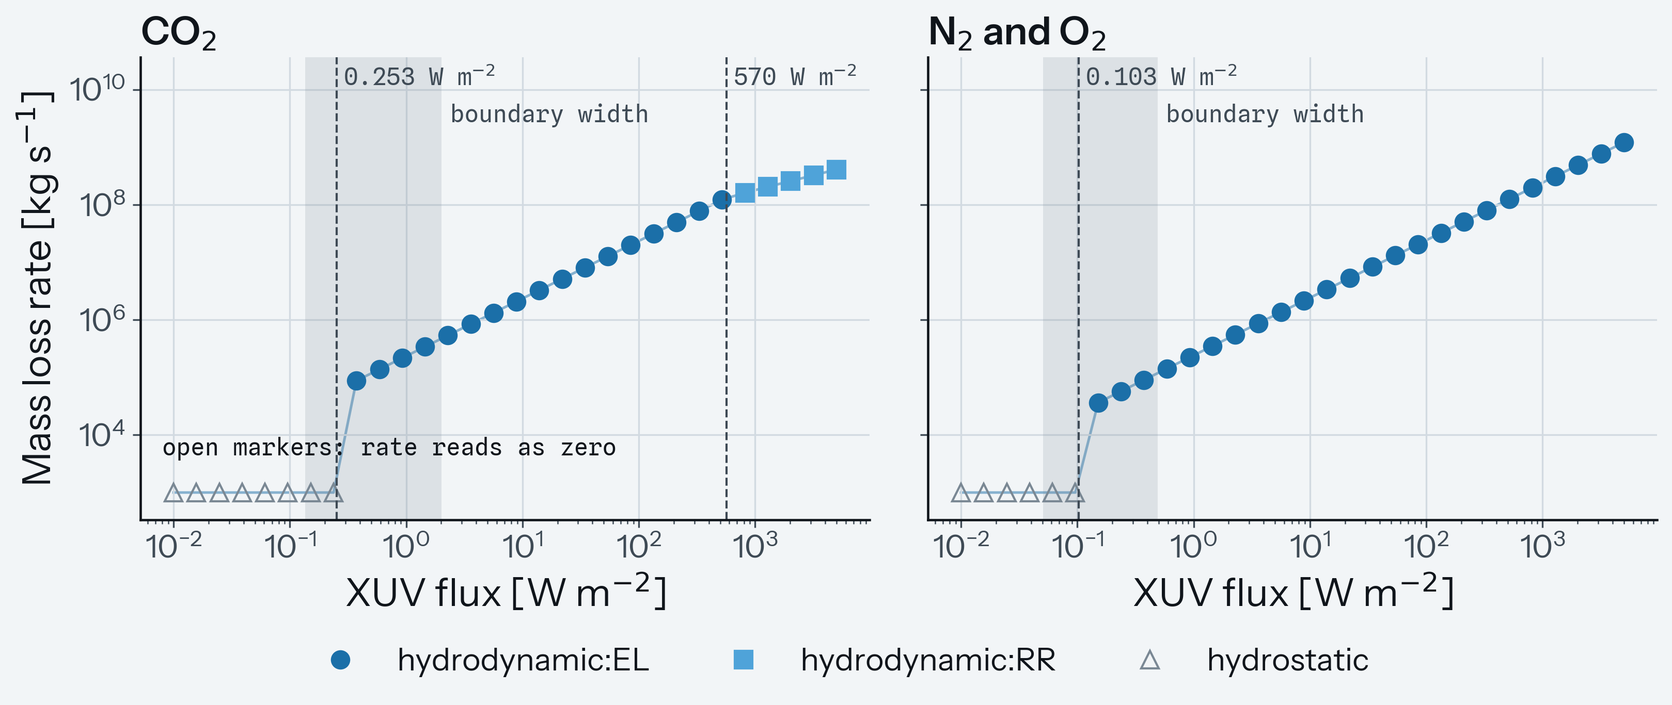
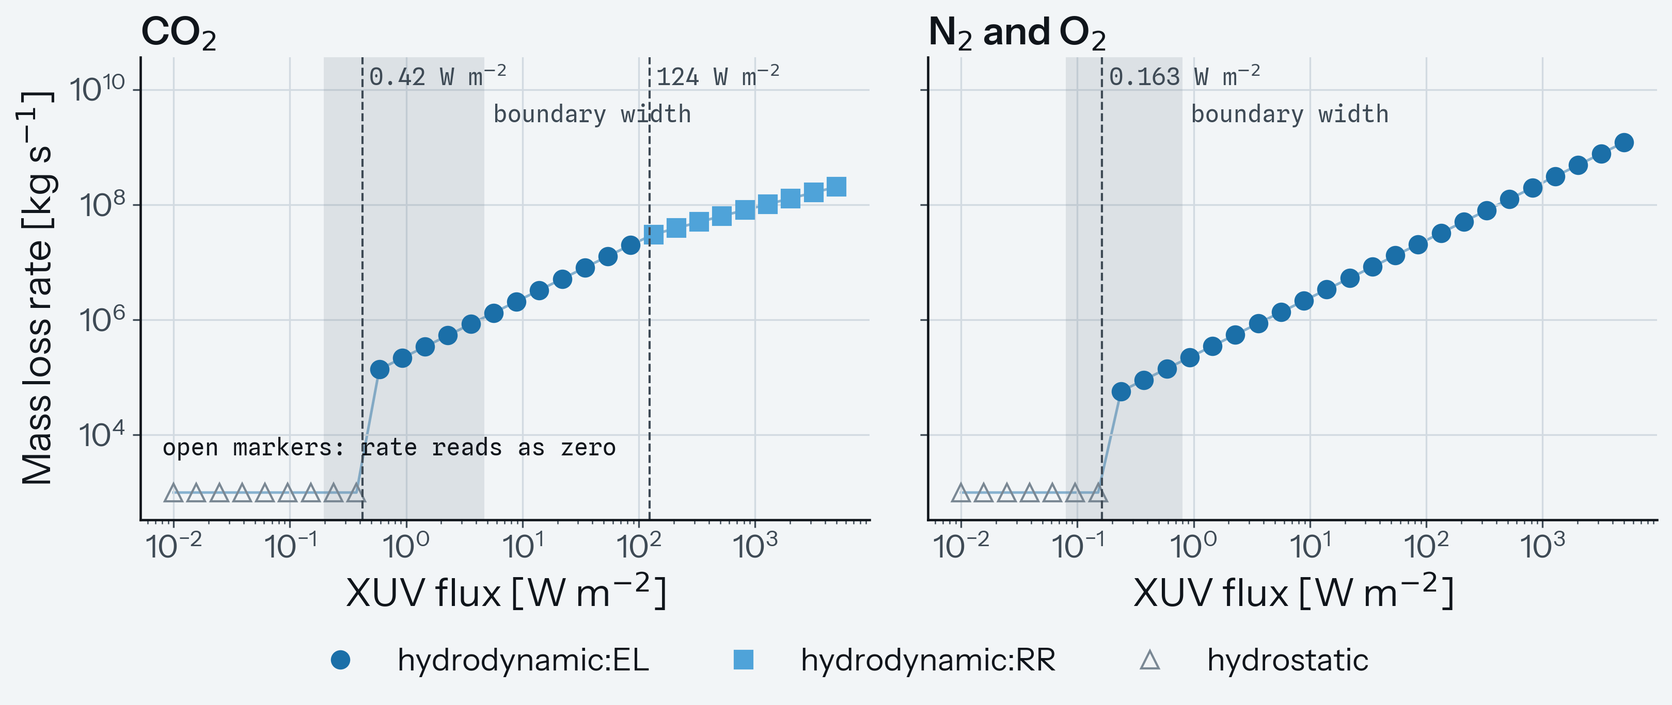
Evaluate the recombination-limited wind at the surface-averaged flux
The energy- and photon-limited rates spread the power a disk intercepts, pi R^2 F, over the whole sphere, but the recombination-limited chain took the substellar flux at every point, Murray-Clay et al.'s spherically symmetric case, so min(EL, RR, PL) compared rates built on two geometries and the recombination-limited one carried four times the photon budget. The chain now takes F_xuv / 4, which halves its rate (it scales as the square root of the flux) and, because the collisionality switch reads the same sonic density, doubles the sonic-point Knudsen number. The wind page states the geometry, and the Murray-Clay dayside factors are described as reductions of the spherically symmetric rate, which they are.

On the tutorial's CO2 planet the wind onset moves from 0.253 to 0.42 W m^-2 and the recombination-limited rate takes over at 124 instead of 570 W m^-2. The efficiency example moves to 3 and 300 W m^-2 so the photon limit still binds above an efficiency of 0.26, the hysteresis example to 0.38 and 0.48 W m^-2, and the stellar track now crosses near 450 Myr; the quoted numbers, both figures, and the overflow edge on the Roche page (now a factor 45) are remeasured. The crossing label on the track figure moves to mid-height, clear of the legend. Three test states that sat on the old geometry are moved: a photon-limited wind at 1e3 W m^-2, a renamed wind whose memory is now tested at a threshold of 0.24, and the residual witness at 0.01 W m^-2.

diff --git a/tests/test_dispatcher.py b/tests/test_dispatcher.py
@@ -312,8 +312,8 @@ def test_recombination_limit_removes_the_rr_candidate_only():
     """With ``recombination_limit`` off the wind is min(EL, PL), and nothing else moves.
 
     A one Earth-mass carbon dioxide atmosphere under 1e4 W m^-2 is
-    recombination-limited by default, at a quarter of its energy-limited
-    rate. Switching the candidate off returns that energy-limited rate and
+    recombination-limited by default, at about a ninth of its
+    energy-limited rate. Switching the candidate off returns that energy-limited rate and
     label, while the sonic-point Knudsen number, which the chain still
     supplies, is unchanged. On a five Earth-mass hydrogen and helium wind
     that is photon-limited, removing RR leaves the verdict alone and
@@ -332,7 +332,7 @@ def test_recombination_limit_removes_the_rr_candidate_only():
     assert off.mdot > 3.0 * on.mdot
     assert off.diagnostics['hydrodynamic']['mdot_rr'] == math.inf
     assert off.diagnostics['knudsen']['kn_sc'] == on.diagnostics['knudsen']['kn_sc']
-    hhe = dict(comp={'H2': 0.9, 'He': 0.1}, F_xuv=1.0e4, a=0.05 * AU)
+    hhe = dict(comp={'H2': 0.9, 'He': 0.1}, F_xuv=1.0e3, a=0.05 * AU)
     pl = dispatch(_inputs(5 * Me, 1.8 * Re, 1100.0, **hhe))
     no_rr = dispatch(
         _inputs(
@@ -1003,6 +1003,32 @@ def test_wind_thermostat_sees_the_co2_column_above_the_base():
     assert t_wind > t_open + 500.0
 
 
+@pytest.mark.physics_invariant
+def test_recombination_limited_rate_uses_the_surface_averaged_flux():
+    """The RR candidate is the chain at F_xuv / 4, the full-surface geometry.
+
+    The energy- and photon-limited rates spread the power a disk intercepts
+    over the whole sphere; the recombination-limited chain matches that at a
+    quarter of the substellar flux. Its rate scales as the square root of
+    the flux, so the substellar value would be twice as large, which the
+    pin discriminates.
+    """
+    from zephyrus import hydrodynamic as hy
+    from zephyrus.composition import atomize
+    from zephyrus.profiles import wind_base_level
+
+    state = _inputs(Me, Re, 1000.0, {'CO2': 1.0}, F_xuv=1.0e4, a=0.05 * AU)
+    out = dispatch(state)
+    hydro = out.diagnostics['hydrodynamic']
+    base, _flags = wind_base_level(state.profile, state.M_p)
+    elements = atomize(base['vmr'])
+    t_wind = hydro['T_wind']
+    quarter = hy.rr_chain(state.M_p, 0.25 * state.F_xuv, base['r'], t_wind, elements)
+    full = hy.rr_chain(state.M_p, state.F_xuv, base['r'], t_wind, elements)
+    assert hydro['mdot_rr'] == pytest.approx(quarter['mdot_rr'], rel=1e-12, abs=0.0)
+    assert full['mdot_rr'] == pytest.approx(2.0 * quarter['mdot_rr'], rel=1e-9, abs=0.0)
+
+
 def test_a_result_cannot_change_the_next_one():
     """Editing a returned result leaves the module and later results intact.
 
@@ -1100,10 +1126,10 @@ def test_hysteresis_remembers_a_wind_the_roche_screen_renamed():
     """A wind renamed roche_overflow is remembered as a wind.
 
     An 8 Earth-mass, 1.43 Earth-radius steam and hydrogen envelope on an
-    eccentric 0.0135 au orbit: its energy-limited wind passes the Hill
-    radius and is renamed, with a sonic-point Knudsen number of 0.152. At a
-    switch threshold of 0.12 the wind is rarefied without memory, so the
-    hysteresis window (0.18) is what keeps it. The memory is the result's
+    eccentric 0.0135 au orbit: its recombination-limited wind passes the
+    Hill radius and is renamed, with a sonic-point Knudsen number of 0.303.
+    At a switch threshold of 0.24 the wind is rarefied without memory, so
+    the hysteresis window (0.36) is what keeps it. The memory is the result's
     rate_branch; the renamed label carried none, and the state dropped to a
     hydrostatic rate seventeen decades below the wind.
     """
@@ -1123,14 +1149,14 @@ def test_hysteresis_remembers_a_wind_the_roche_screen_renamed():
         p_top=1.46e-6,
     )
     wind = dispatch(state)
-    assert (wind.regime, wind.rate_branch) == ('roche_overflow', 'hydrodynamic:EL')
+    assert (wind.regime, wind.rate_branch) == ('roche_overflow', 'hydrodynamic:RR')
     assert wind.rate_branch == wind.diagnostics['roche']['rate_branch']
-    assert 0.12 < wind.diagnostics['knudsen']['kn_sc'] < 0.18
-    settings = DispatchSettings(kn_crit=0.12)
+    assert 0.24 < wind.diagnostics['knudsen']['kn_sc'] < 0.36
+    settings = DispatchSettings(kn_crit=0.24)
     kept = dispatch(dataclasses.replace(state, settings=settings, prev_regime=wind.rate_branch))
-    assert (kept.regime, kept.rate_branch) == ('roche_overflow', 'hydrodynamic:EL')
+    assert (kept.regime, kept.rate_branch) == ('roche_overflow', 'hydrodynamic:RR')
     assert kept.flags.get('hysteresis_active') is True
-    assert kept.diagnostics['knudsen']['threshold_applied'] == pytest.approx(0.18)
+    assert kept.diagnostics['knudsen']['threshold_applied'] == pytest.approx(0.36)
     forgot = dispatch(dataclasses.replace(state, settings=settings, prev_regime=wind.regime))
     assert forgot.regime == 'hydrostatic'
     assert 'hysteresis_active' not in forgot.flags
@@ -1753,7 +1779,7 @@ ROUTING_WITNESSES = [
         1.5,
         1000.0,
         {'H2': 0.9, 'He': 0.1},
-        0.0001,
+        0.01,
         0.0775,
         0.0,
         600.0,

diff --git a/examples/demo_dispatcher/demo_dispatcher.py b/examples/demo_dispatcher/demo_dispatcher.py
@@ -291,7 +291,7 @@ print(
 # --8<-- [start:step6_efficiency]
 print(f'{"epsilon":>7}  {"F_xuv":>6}  {"regime":<16} {"EL":>9}  {"RR":>9}  {"PL":>9}  [kg/s]')
 for eps in (0.1, 0.3, 0.6):
-    for f_xuv in (10.0, 1.0e3):
+    for f_xuv in (3.0, 300.0):
         out = dispatch(build_state('CO2', 1.0, 1.0, f_xuv, DispatchSettings(efficiency=eps)))
         hy = out.diagnostics['hydrodynamic']
         print(
@@ -315,7 +315,7 @@ for fractionate in (True, False):
 
 # --8<-- [start:step6_hysteresis]
 print(f'{"F_xuv":>5}  {"previous label":<16} {"regime":<16} {"Kn_sc":>6}  threshold')
-for f_xuv in (0.23, 0.28):
+for f_xuv in (0.38, 0.48):
     for previous in (None, 'hydrostatic', 'hydrodynamic:EL'):
         hysteresis_state = build_state('CO2', 1.0, 1.0, f_xuv)
         hysteresis_state.prev_regime = previous

diff --git a/src/zephyrus/dispatcher.py b/src/zephyrus/dispatcher.py
@@ -377,7 +377,9 @@ def dispatch(inputs: EscapeInputs) -> EscapeResult:
     hydro_flags: dict = dict(base_flags)
     if thermo.get('clamped'):
         hydro_flags['thermostat_clamped'] = thermo['clamped']
-    rr = hy.rr_chain(inputs.M_p, inputs.F_xuv, base['r'], t_wind, elements)
+    # Surface-averaged flux, the full-surface geometry of the EL and PL rates;
+    # Murray-Clay et al. (2009) put the substellar flux over the whole sphere.
+    rr = hy.rr_chain(inputs.M_p, 0.25 * inputs.F_xuv, base['r'], t_wind, elements)
     if rr['subcritical']:
         hydro_flags['subcritical_sonic'] = True
 

diff --git a/src/zephyrus/diagnostics.py b/src/zephyrus/diagnostics.py
@@ -30,8 +30,8 @@ MURRAY_CLAY_EXPONENTS = {
     'EL_numerical': 0.9,
     'EL_analytic_inherited': 1.0,
 }
-# Their regime-dependent dayside-heating reduction factors relative to
-# full-surface redistribution, for sensitivity analyses.
+# Their regime-dependent dayside-heating reductions of the spherically
+# symmetric rate (substellar flux over 4 pi), for sensitivity analyses.
 DAYSIDE_FACTORS = {'energy_limited': 0.26, 'recombination_limited': 0.31}
 
 # Threshold gravitational potentials, log10(-phi) in cgs (erg/g), with

diff --git a/src/zephyrus/plot.py b/src/zephyrus/plot.py
@@ -317,7 +317,7 @@ def plot_track(
                 ax.axvline(crossing, color=RULE_COLOR, linestyle='--', lw=1.0)
             ax_rate.annotate(
                 f'{regimes[i]} ends near {crossing:.0f} Myr',
-                xy=(crossing, 0.06),
+                xy=(crossing, 0.5),
                 xycoords=ax_rate.get_xaxis_transform(),
                 xytext=(-6, 0),
                 textcoords='offset points',

diff --git a/docs/Tutorials/dispatch.md b/docs/Tutorials/dispatch.md
@@ -123,19 +123,19 @@ A star's XUV output falls by orders of magnitude as it ages, so a sweep in flux 
 ```text
 === Step 3: sweep the XUV flux across two regime boundaries ===
 F_xuv [W m-2]  regime           mdot [kg/s]     Kn_sc  label at Kn_crit 0.1 | 3
-         0.01  hydrostatic       4.992e-123   4.5e+18  hydrostatic | hydrostatic
-       0.0389  hydrostatic       4.992e-123       298  hydrostatic | hydrostatic
-        0.151  hydrostatic       4.992e-123      2.41  hydrostatic | hydrodynamic:EL
-        0.587  hydrodynamic:EL    1.378e+05     0.336  hydrostatic | hydrodynamic:EL
-         2.28  hydrodynamic:EL    5.356e+05    0.0899  hydrodynamic:EL | hydrodynamic:EL
-         8.87  hydrodynamic:EL    2.082e+06     0.031  hydrodynamic:EL | hydrodynamic:EL
-         34.5  hydrodynamic:EL    8.090e+06    0.0125  hydrodynamic:EL | hydrodynamic:EL
-          134  hydrodynamic:EL    3.144e+07   0.00555  hydrodynamic:EL | hydrodynamic:EL
-          520  hydrodynamic:EL    1.222e+08   0.00264  hydrodynamic:EL | hydrodynamic:EL
-     2.02e+03  hydrodynamic:RR    2.576e+08    0.0013  hydrodynamic:RR | hydrodynamic:RR
+         0.01  hydrostatic       4.992e-123  8.99e+18  hydrostatic | hydrostatic
+       0.0389  hydrostatic       4.992e-123       595  hydrostatic | hydrostatic
+        0.151  hydrostatic       4.992e-123      4.82  hydrostatic | hydrostatic
+        0.587  hydrodynamic:EL    1.378e+05     0.673  hydrostatic | hydrodynamic:EL
+         2.28  hydrodynamic:EL    5.356e+05      0.18  hydrostatic | hydrodynamic:EL
+         8.87  hydrodynamic:EL    2.082e+06    0.0621  hydrodynamic:EL | hydrodynamic:EL
+         34.5  hydrodynamic:EL    8.090e+06    0.0249  hydrodynamic:EL | hydrodynamic:EL
+          134  hydrodynamic:RR    3.044e+07    0.0111  hydrodynamic:RR | hydrodynamic:RR
+          520  hydrodynamic:RR    6.374e+07   0.00528  hydrodynamic:RR | hydrodynamic:RR
+     2.02e+03  hydrodynamic:RR    1.288e+08   0.00261  hydrodynamic:RR | hydrodynamic:RR
 ```
 
-The label changes twice. At low flux the planet is `hydrostatic`: there is no wind, and particles escape one at a time from the exobase (Jeans escape). Above about $0.3\,\mathrm{W\,m^{-2}}$ it is a wind. At the highest fluxes the wind's rate is set by the recombination-limited formula (`hydrodynamic:RR`) instead of the energy-limited one.
+The label changes twice. At low flux the planet is `hydrostatic`: there is no wind, and particles escape one at a time from the exobase (Jeans escape). Above about $0.4\,\mathrm{W\,m^{-2}}$ it is a wind. At the highest fluxes the wind's rate is set by the recombination-limited formula (`hydrodynamic:RR`) instead of the energy-limited one.
 
 The column `Kn_sc` is the Knudsen number at the sonic point: the mean free path of a particle divided by the local scale height. When it is small, particles collide often and the gas behaves as a fluid, so a wind can exist. The dispatcher calls the state a wind when `Kn_sc` is below the threshold `kn_crit`, which defaults to 1. The last column shows the label the state would get at `kn_crit` = 0.1 and 3, the edges of the threshold's physical range.
 
@@ -147,17 +147,17 @@ To find where each label changes, `boundary_flux` repeatedly halves a flux inter
 
 ```text
 CO2
-  regime boundaries       0.253, 570 W m-2
-  wind onset band         0.135 to 2.02 W m-2, a factor 15
+  regime boundaries       0.42, 124 W m-2
+  wind onset band         0.197 to 4.69 W m-2, a factor 24
   rate at 0.01 W m-2      4.99e-123 kg/s, above the floor: False
 N2-O2
-  regime boundaries       0.103 W m-2
-  wind onset band         0.0509 to 0.489 W m-2, a factor 9.6
+  regime boundaries       0.163 W m-2
+  wind onset band         0.0792 to 0.798 W m-2, a factor 10
   rate at 0.01 W m-2      1.53e-71 kg/s, above the floor: False
 rate floor (1 proton/yr)  5.30e-35 kg/s
 ```
 
-On the $\mathrm{CO_2}$ planet the wind sets in at $0.253\,\mathrm{W\,m^{-2}}$, and the recombination-limited rate takes over at $570\,\mathrm{W\,m^{-2}}$. The $\mathrm{N_2}$ and $\mathrm{O_2}$ planet of the same mass and radius starts its wind about 2.5 times lower, at $0.103\,\mathrm{W\,m^{-2}}$, and never reaches the recombination-limited label in this range. Composition moves the boundaries, not only the rates.
+On the $\mathrm{CO_2}$ planet the wind sets in at $0.42\,\mathrm{W\,m^{-2}}$, and the recombination-limited rate takes over at $124\,\mathrm{W\,m^{-2}}$. The $\mathrm{N_2}$ and $\mathrm{O_2}$ planet of the same mass and radius starts its wind about 2.6 times lower, at $0.163\,\mathrm{W\,m^{-2}}$, and never reaches the recombination-limited label in this range. Composition moves the boundaries, not only the rates.
 
 The last block draws both sweeps:
 
@@ -169,7 +169,7 @@ The last block draws both sweeps:
 
 Two features of this figure matter.
 
-**The shaded band.** Kinetic simulations place the transition from fluid to free particles at a Knudsen number near 0.1 when the heating is deposited in a thin layer, and near 1 when it is spread out[^johnson]. So the threshold has a physical range of 0.1 to 3, and the boundary it sets is a band rather than a line. On the $\mathrm{CO_2}$ planet the wind sets in anywhere between $0.135$ and $2.02\,\mathrm{W\,m^{-2}}$, a factor of 15. Quote a regime boundary with this width. Every result already carries the labels at both edges, in `diagnostics['knudsen']['counterfactual_labels']`, so you do not need to rerun anything to find it.
+**The shaded band.** Kinetic simulations place the transition from fluid to free particles at a Knudsen number near 0.1 when the heating is deposited in a thin layer, and near 1 when it is spread out[^johnson]. So the threshold has a physical range of 0.1 to 3, and the boundary it sets is a band rather than a line. On the $\mathrm{CO_2}$ planet the wind sets in anywhere between $0.197$ and $4.69\,\mathrm{W\,m^{-2}}$, a factor of 24. Quote a regime boundary with this width. Every result already carries the labels at both edges, in `diagnostics['knudsen']['counterfactual_labels']`, so you do not need to rerun anything to find it.
 
 **The open markers.** The hydrostatic rates, $5.0 \times 10^{-123}\,\mathrm{kg\,s^{-1}}$ for $\mathrm{CO_2}$ and $1.5 \times 10^{-71}\,\mathrm{kg\,s^{-1}}$ for $\mathrm{N_2}$ and $\mathrm{O_2}$, are zero for any practical purpose. Two comparisons help you decide whether a rate matters:
 
@@ -251,10 +251,10 @@ The result of step 2 carries 19 groups of diagnostics. The dispatcher never read
 ```text
 === Step 5: read the diagnostics ===
 Which branch, and how close was the switch?
-  Kn_sc 0.0285 against threshold 1
+  Kn_sc 0.0569 against threshold 1
   label at the band edges: {0.1: 'hydrodynamic:EL', 3.0: 'hydrodynamic:EL'}
 What set the rate?
-  EL 2.348e+06, RR 1.207e+07, PL 6.137e+06 kg/s
+  EL 2.348e+06, RR 6.037e+06, PL 6.137e+06 kg/s
   EL-selected, T_wind 8525 K, barometric factor 0.01
 Could the heating drive a transonic flow?
   Q_net / Q_c 10.1
@@ -271,7 +271,7 @@ Where was the wind launched, and where did the cross sections come from?
 
 What each answer says:
 
-- The switch. A Knudsen number of 0.0285 is about 35 times below the threshold, and the label is the same at both edges of the band. A value within a few times of the threshold, or edge labels that differ, means the label depends on a choice within the criterion's range.
+- The switch. A Knudsen number of 0.057 is about 18 times below the threshold, and the label is the same at both edges of the band. A value within a few times of the threshold, or edge labels that differ, means the label depends on a choice within the criterion's range.
 - The rate. The hydrodynamic wind rate is the smallest of three limits: energy-limited (EL), recombination-limited (RR), and photon-limited (PL). All three are computed, so you can see the margin. `T_wind` is the wind temperature set by the balance of heating and cooling, $8525\,\mathrm{K}$ here. The barometric factor is the fraction of the gas density at the wind base that survives to the sonic point. When an RR rate wins, it tells you whether recombination at the base or the climb to the sonic point limited the wind (see the [escape regimes](../Explanations/regimes/wind.md) page).
 - The heating. $Q_\mathrm{net}/Q_\mathrm{c}$ compares the absorbed heating with the power needed to drive a flow through the sonic point[^johnson]. Below 1, no wind is possible whatever a rate formula returns. At 10.1 there is an order of magnitude to spare.
 - Other classifications. Papers classify escape with different quantities, and printing them lets a reader check the verdict in their own terms. Three are Jeans parameters, each the gravitational binding energy of a particle over its thermal energy, taken at a different place. `lambda_exo` is taken at the exobase with the exobase temperature, the form that sets the Jeans escape flux[^volkovb]. `lambda_rp` is taken at the planet radius with the equilibrium temperature, the restricted Jeans parameter of Fossati et al.[^fossati], here with the mean molecular mass as in Guo[^guo]. `lambda_star` is that parameter corrected for the star's tides, which Guo uses to tell thermally, tidally, and XUV-driven escape apart[^guo]. The gravitational potential, `log10(-phi)`, is what Salz et al.[^salz] use to separate winds from stable upper atmospheres. The exobase value of 301 is why the hydrostatic rates of step 3 vanish: the Jeans flux falls as $e^{-301}$.
@@ -329,18 +329,18 @@ The energy-limited rate assumes a fraction `efficiency` of the absorbed XUV ener
 
 ```text
 epsilon   F_xuv  regime                  EL         RR         PL  [kg/s]
-    0.1      10  hydrodynamic:EL   2.35e+06   1.21e+07   6.14e+06
-    0.1    1000  hydrodynamic:RR   2.35e+08   1.79e+08   6.14e+08
-    0.3      10  hydrodynamic:PL   7.04e+06   1.21e+07   6.14e+06
-    0.3    1000  hydrodynamic:RR   7.04e+08   1.79e+08   6.14e+08
-    0.6      10  hydrodynamic:PL   1.41e+07   1.21e+07   6.14e+06
-    0.6    1000  hydrodynamic:RR   1.41e+09   1.79e+08   6.14e+08
+    0.1       3  hydrodynamic:EL   7.04e+05   2.44e+06   1.84e+06
+    0.1     300  hydrodynamic:RR   7.04e+07   4.75e+07   1.84e+08
+    0.3       3  hydrodynamic:PL   2.11e+06   2.44e+06   1.84e+06
+    0.3     300  hydrodynamic:RR   2.11e+08   4.75e+07   1.84e+08
+    0.6       3  hydrodynamic:PL   4.23e+06   2.44e+06   1.84e+06
+    0.6     300  hydrodynamic:RR   4.23e+08   4.75e+07   1.84e+08
 photon-limit efficiency 0.261
 ```
 
-The dispatched rate is the smallest of the three columns. At $10\,\mathrm{W\,m^{-2}}$ and the default efficiency of 0.1, the energy limit is lowest. Above an efficiency of 0.261 the photon limit takes over: each ionising photon removes at most one particle, and lifting one particle out of the well of a $1\,M_\oplus$ planet costs about a quarter of a photon's energy[^owenalvarez]. More efficient heating cannot then remove more gas, so the rate stays at $6.1 \times 10^{6}\,\mathrm{kg\,s^{-1}}$. The label changes although the wind itself does not.
+The dispatched rate is the smallest of the three columns. At $3\,\mathrm{W\,m^{-2}}$ and the default efficiency of 0.1, the energy limit is lowest. Above an efficiency of 0.261 the photon limit takes over: each ionising photon removes at most one particle, and lifting one particle out of the well of a $1\,M_\oplus$ planet costs about a quarter of a photon's energy[^owenalvarez]. More efficient heating cannot then remove more gas, so the rate stays at $1.8 \times 10^{6}\,\mathrm{kg\,s^{-1}}$. The label changes although the wind itself does not.
 
-Both the energy and photon limits are proportional to the flux. The recombination limit is not: a hundredfold rise in flux raises it only about 16 times, because recombination returns part of the absorbed energy. At $1000\,\mathrm{W\,m^{-2}}$ it is lowest at every efficiency, and the efficiency no longer matters. The settings `photon_limit = False` and `recombination_limit = False` remove the PL and RR limits, which reproduces codes that carry only the energy-limited formula.
+Both the energy and photon limits are proportional to the flux. The recombination limit is not: a hundredfold rise in flux raises it only about 20 times, because recombination returns part of the absorbed energy. At $300\,\mathrm{W\,m^{-2}}$ it is lowest at every efficiency, and the efficiency no longer matters. The settings `photon_limit = False` and `recombination_limit = False` remove the PL and RR limits, which reproduces codes that carry only the energy-limited formula.
 
 ### Fractionation
 
@@ -367,12 +367,12 @@ A time-stepping run passes the previous result's `rate_branch` as `prev_regime`,
 
 ```text
 F_xuv  previous label   regime            Kn_sc  threshold
- 0.23  None             hydrostatic       1.159  1
- 0.23  hydrostatic      hydrostatic       1.159  0.667
- 0.23  hydrodynamic:EL  hydrodynamic:EL   1.159  1.5
- 0.28  None             hydrodynamic:EL   0.861  1
- 0.28  hydrostatic      hydrostatic       0.861  0.667
- 0.28  hydrodynamic:EL  hydrodynamic:EL   0.861  1.5
+ 0.38  None             hydrostatic       1.135  1
+ 0.38  hydrostatic      hydrostatic       1.135  0.667
+ 0.38  hydrodynamic:EL  hydrodynamic:EL   1.135  1.5
+ 0.48  None             hydrodynamic:EL   0.849  1
+ 0.48  hydrostatic      hydrostatic       0.849  0.667
+ 0.48  hydrodynamic:EL  hydrodynamic:EL   0.849  1.5
 ```
 
 Inside the window the previous label is kept, in both directions. The `threshold` column shows when it was in use.
@@ -390,14 +390,14 @@ Load a MORS track for a Sun-like star, convert its luminosities to fluxes at $0.
 ```text
 === Step 7: follow a stellar XUV history ===
 age [Myr]   F_xuv  regime           mdot [kg/s]     Kn_sc  consistent
-      1.0    14.6  hydrodynamic:EL    3.104e+06    0.0221  True
-     45.0   0.406  hydrodynamic:EL    8.638e+04     0.555  True
-    310.1   0.349  hydrodynamic:EL    7.425e+04     0.686  False
-   1138.9   0.213  hydrostatic        2.043e-02      1.51  True
-   3039.5   0.124  hydrostatic        2.043e-02      4.54  True
-   6189.6  0.0849  hydrostatic        2.043e-02      12.2  True
-   9439.6   0.081  hydrostatic        2.043e-02      14.1  True
-label changes between 939 and 1139 Myr: 5.023e+04 to 2.043e-02 kg/s
+      1.0    14.6  hydrodynamic:EL    3.104e+06    0.0442  True
+     45.0   0.406  hydrodynamic:EL    8.638e+04      1.11  True
+    310.1   0.349  hydrodynamic:EL    7.425e+04      1.37  False
+   1138.9   0.213  hydrostatic        2.043e-02      3.02  True
+   3039.5   0.124  hydrostatic        2.043e-02      9.08  True
+   6189.6  0.0849  hydrostatic        2.043e-02      24.4  True
+   9439.6   0.081  hydrostatic        2.043e-02      28.2  True
+label changes between 399 and 495 Myr: 7.056e+04 to 2.043e-02 kg/s
 ```
 
 !!! warning "Snapshots, not an evolution"
@@ -413,11 +413,11 @@ The last block draws the track:
 
 What the track shows:
 
-- The label belongs to the state, not to the planet. Nothing about the planet changed. The star became quieter, the Knudsen number rose through the threshold, and near $1\,\mathrm{Gyr}$ the escape changed from a wind to Jeans escape.
-- The rate drops by more than six orders of magnitude at the crossing, from $5.0 \times 10^{4}$ to $2.0 \times 10^{-2}\,\mathrm{kg\,s^{-1}}$. There is no smoothing between branches, so the size of this jump is a result you can quote. It measures how much the two descriptions disagree at the same state.
+- The label belongs to the state, not to the planet. Nothing about the planet changed. The star became quieter, the Knudsen number rose through the threshold, and near $450\,\mathrm{Myr}$ the escape changed from a wind to Jeans escape. At 45 and 310 Myr the Knudsen number is already above 1, and the wind holds because the previous step was a wind: that is the hysteresis window of step 6, which keeps it until the number passes 1.5.
+- The rate drops by more than six orders of magnitude at the crossing, from $7.1 \times 10^{4}$ to $2.0 \times 10^{-2}\,\mathrm{kg\,s^{-1}}$. There is no smoothing between branches, so the size of this jump is a result you can quote. It measures how much the two descriptions disagree at the same state.
 - What escapes changes too (lower panel). The wind carries carbon and oxygen away with the hydrogen. After the crossing hydrogen escapes alone, and the carbon and oxygen rates drop to about $10^{-149}\,\mathrm{kg\,s^{-1}}$, off the bottom of the plot.
-- The hydrostatic rate stays at $2.0 \times 10^{-2}\,\mathrm{kg\,s^{-1}}$ for the remaining eight billion years. That branch contains no XUV physics: a prescribed exobase temperature, a frozen profile, and a diffusion-limited supply that does not see the star. The flat line shows what the branch leaves out. It is also why hydrostatic rates of heavy elements are flagged as lower limits: the non-thermal processes that remove heavy species from real upper atmospheres are not modelled.
-- The consistency check fails between $237$ and $939\,\mathrm{Myr}$ (shaded). At those ages the wind would have emptied the inventory faster than the star aged, so those snapshots cannot describe a planet of that age. After the crossing the check passes again, but only because escape has almost stopped.
+- The hydrostatic rate stays at $2.0 \times 10^{-2}\,\mathrm{kg\,s^{-1}}$ for the remaining nine billion years. That branch contains no XUV physics: a prescribed exobase temperature, a frozen profile, and a diffusion-limited supply that does not see the star. The flat line shows what the branch leaves out. It is also why hydrostatic rates of heavy elements are flagged as lower limits: the non-thermal processes that remove heavy species from real upper atmospheres are not modelled.
+- The consistency check fails between $237$ and $399\,\mathrm{Myr}$ (shaded). At those ages the wind would have emptied the inventory faster than the star aged, so those snapshots cannot describe a planet of that age. After the crossing the check passes again, but only because escape has almost stopped.
 
 Each call receives the previous rate branch, as a time-stepping run would, so the crossing age depends slightly on the sampling. The hysteresis window of step 6 bounds that dependence.
 

diff --git a/docs/How-to/troubleshooting.md b/docs/How-to/troubleshooting.md
@@ -105,7 +105,7 @@ Points whose flow radius exceeds two thirds of the Hill radius raise `near_roche
 
 **Cause.** Either the state is sitting inside the collisionality band, where the criterion does not decide the label, or two candidate rates are within a hair of each other and the comparison keeps changing hands.
 
-**What to do.** For an evolutionary track, pass the previous result's `rate_branch` as `prev_regime`. That opens a hysteresis window around the threshold, so the previous branch wins inside it and a track cannot chatter on numerical noise. Pass `rate_branch` rather than `regime`, because a wind renamed `roche_overflow` is still a wind. `hysteresis_active` says the window moved the threshold, and `diagnostics['knudsen']['threshold_applied']` shows where it moved it. For a static grid, quote the boundary with the width its criterion implies rather than as a line: re-dispatch at `kn_crit` of 0.1 and 3 and report the range. The [tutorial](../Tutorials/dispatch.md) measures such a band as a factor of 15 in boundary flux for one planet.
+**What to do.** For an evolutionary track, pass the previous result's `rate_branch` as `prev_regime`. That opens a hysteresis window around the threshold, so the previous branch wins inside it and a track cannot chatter on numerical noise. Pass `rate_branch` rather than `regime`, because a wind renamed `roche_overflow` is still a wind. `hysteresis_active` says the window moved the threshold, and `diagnostics['knudsen']['threshold_applied']` shows where it moved it. For a static grid, quote the boundary with the width its criterion implies rather than as a line: re-dispatch at `kn_crit` of 0.1 and 3 and report the range. The [tutorial](../Tutorials/dispatch.md) measures such a band as a factor of 24 in boundary flux for one planet.
 
 ## The per-species rates look like a bulk split
 

diff --git a/docs/Explanations/regimes/wind.md b/docs/Explanations/regimes/wind.md
@@ -59,9 +59,9 @@ with hydrogen's $2.7 \times 10^{-13}$ cm³ s⁻¹ and its $T^{-0.9}$ scaling fro
 
 Balancing photoionisation of the unit-optical-depth column against recombination removes the cross section and fixes the base ion density,
 
-$$n_+ \;=\; \sqrt{\frac{F_\mathrm{XUV}\, G M_\mathrm{p}}{h\nu_0\, \alpha_\mathrm{B}\, c_\mathrm{s}^2\, R_\mathrm{base}^2}} \tag{6}$$
+$$n_+ \;=\; \sqrt{\frac{(F_\mathrm{XUV}/4)\, G M_\mathrm{p}}{h\nu_0\, \alpha_\mathrm{B}\, c_\mathrm{s}^2\, R_\mathrm{base}^2}} \tag{6}$$
 
-with $h\nu_0$ the front energy of Eq. (2). An isothermal Parker wind carries the base mass density $n_+\, \mu_+\, m_\mathrm{p}$ to the sonic point, and the rate is the mass flux there over the sonic sphere:
+with $h\nu_0$ the front energy of Eq. (2). The flux is averaged over the surface, $F_\mathrm{XUV}/4$, so this rate shares the full-surface geometry of Eqs. (3) and (8), which spread the power intercepted by a disk over the whole sphere. Murray-Clay et al. apply the substellar flux over the whole sphere instead, which gives a rate twice as large, since it scales as the square root of the flux. The collisionality switch reads the sonic density of this chain, so its Knudsen number carries the same geometry. An isothermal Parker wind carries the base mass density $n_+\, \mu_+\, m_\mathrm{p}$ to the sonic point, and the rate is the mass flux there over the sonic sphere:
 
 $$\dot{M}_\mathrm{RR} \;=\; 4\pi\, \rho_\mathrm{s}\, c_\mathrm{s}\, R_\mathrm{s}^2, \qquad \rho_\mathrm{s} = n_+\, \mu_+\, m_\mathrm{p}\; e^{\,3/2 - \lambda_\mathrm{b}} \tag{7}$$
 

diff --git a/docs/Explanations/regimes/roche.md b/docs/Explanations/regimes/roche.md
@@ -91,7 +91,7 @@ The comparison for `dynamical` uses the Roche lobe, the critical surface, which 
 Numbers measured with this code, on the states named:
 
 - An Earth-mass steam atmosphere at 1000 K with no XUV puts $4 \times 10^{-28}$ particles per cubic metre at L1, a Knudsen number of $6 \times 10^{37}$, and returns `hydrostatic`.
-- The fluid condition of Eq. (6) is a criterion boundary. On an 8 Earth-mass, 3 Earth-radius hydrogen envelope at $F_\mathrm{XUV} = 10^{-4}$ W m⁻², the dispatched rate drops by a factor of 113 where it fails, at 0.0526 au.
+- The fluid condition of Eq. (6) is a criterion boundary. On an 8 Earth-mass, 3 Earth-radius hydrogen envelope at $F_\mathrm{XUV} = 10^{-4}$ W m⁻², at 1000 K, the dispatched rate drops by a factor of 45 where it fails, at 0.0526 au, to the hydrostatic rate.
 - Under `nozzle_temperature = 'wind'`, the rate holds to 0.5% across a factor of four in launch radius along the wind's isothermal column, and moves by a factor of eleven along the profile's colder one. On a mildly inverted profile, the rate varies by a factor of 2.4 across three decades of launch level, against 1.14 on an isothermal one.
 
 [^jackson17]: Jackson, B., Arras, P., Penev, K., Peacock, S., & Marchant, P. (2017). A new model of Roche lobe overflow for short-period gaseous planets and binary stars. *The Astrophysical Journal, 835*(2), 145. https://doi.org/10.3847/1538-4357/835/2/145

diff --git a/docs/Explanations/regimes/collisionality.md b/docs/Explanations/regimes/collisionality.md
@@ -41,7 +41,7 @@ For a time-stepping caller, supplying the previous result's `rate_branch` as `pr
 
 ## Measured behaviour
 
-- The recombination-limited calculation reports base ionisation fractions reaching 0.86 on heavy compositions, which is where the neutral cross sections matter most.
+- The recombination-limited calculation reports base ionisation fractions above 0.99 on heavy compositions at high flux (a 0.1 Earth-mass nitrogen and oxygen atmosphere at $10^5$ W m⁻²), which is where the neutral cross sections matter most.
 
 [^cp26]: Chatterjee, R. D., & Pierrehumbert, R. T. (2026). Novel Physics of Escaping Secondary Atmospheres May Shape the Cosmic Shoreline. *The Astrophysical Journal, 998*(2), 236. https://doi.org/10.3847/1538-4357/ae2ffa
 
